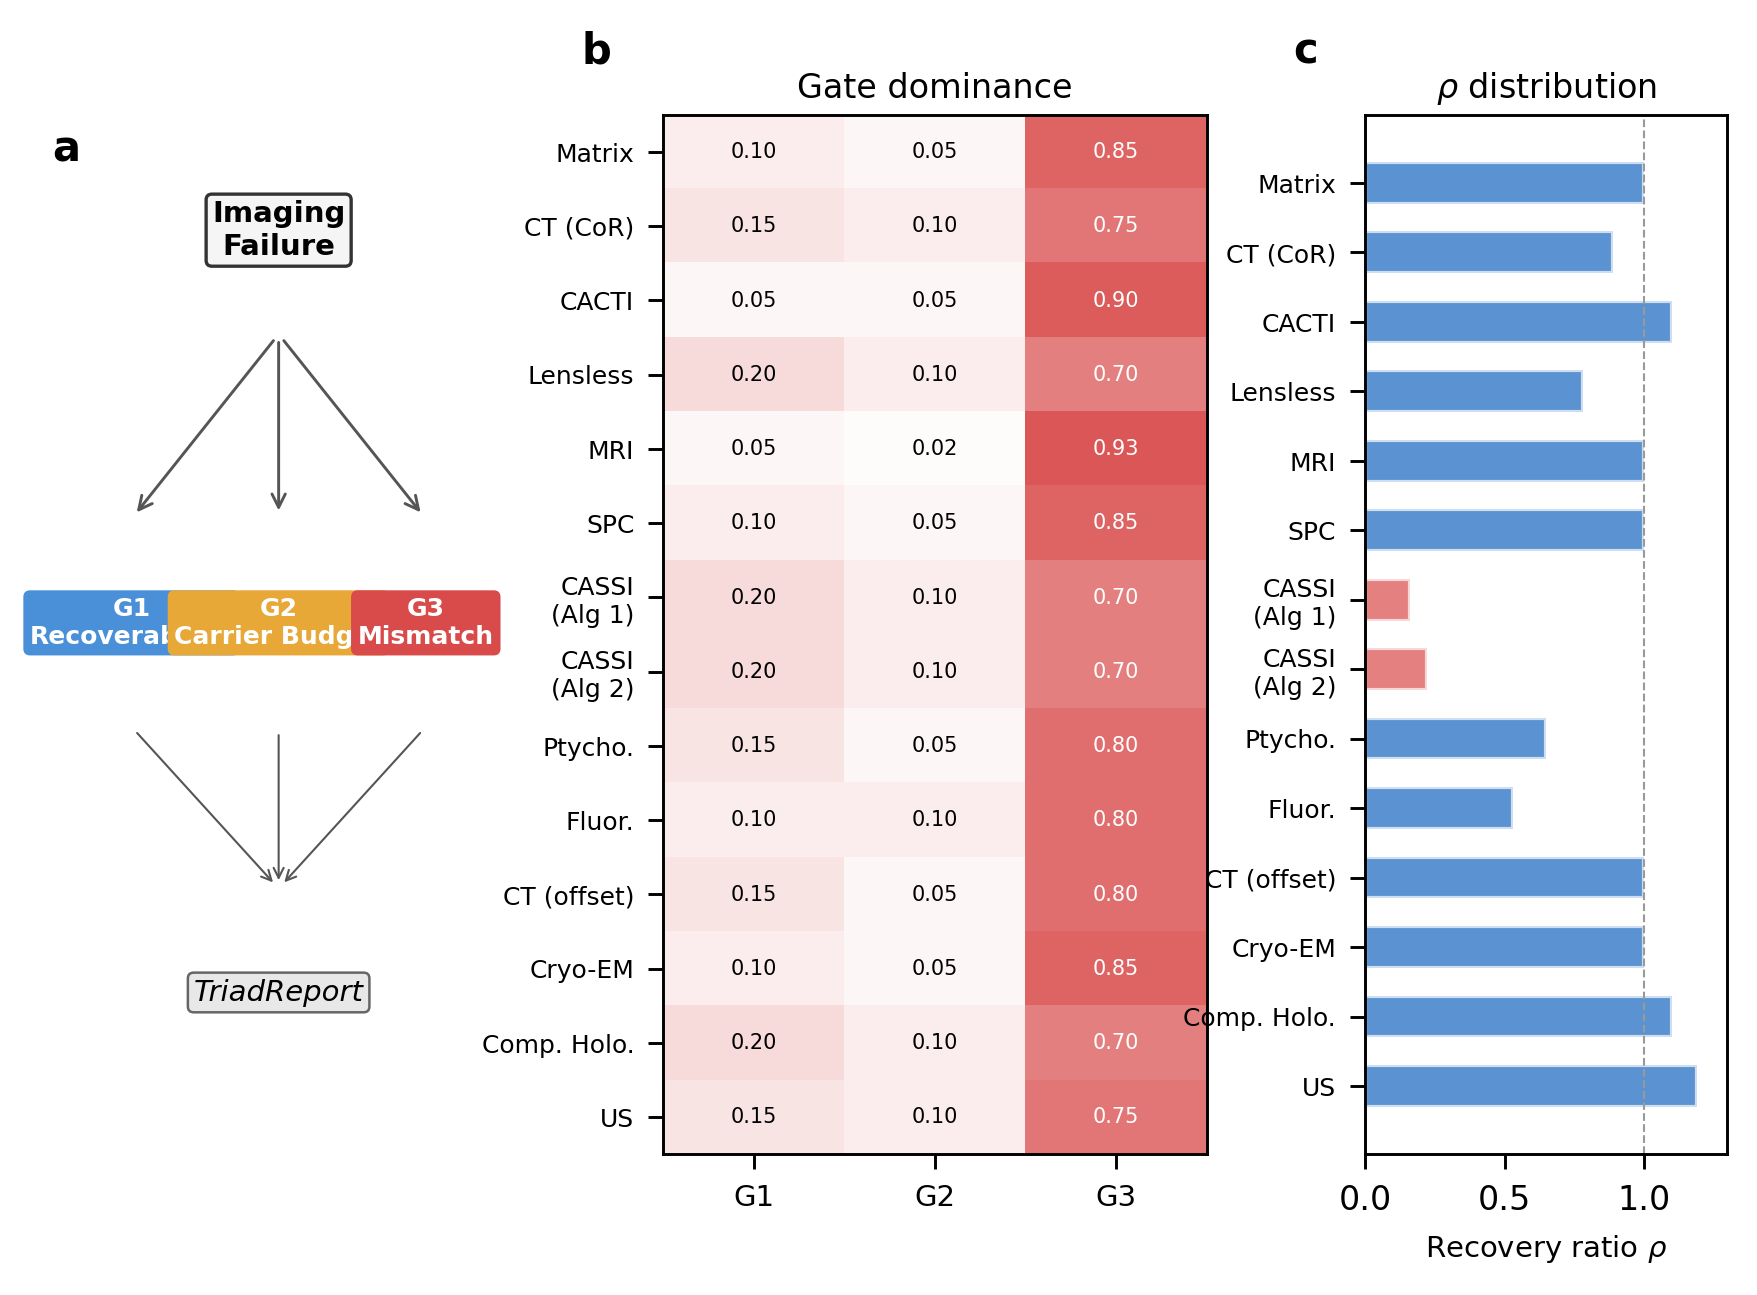
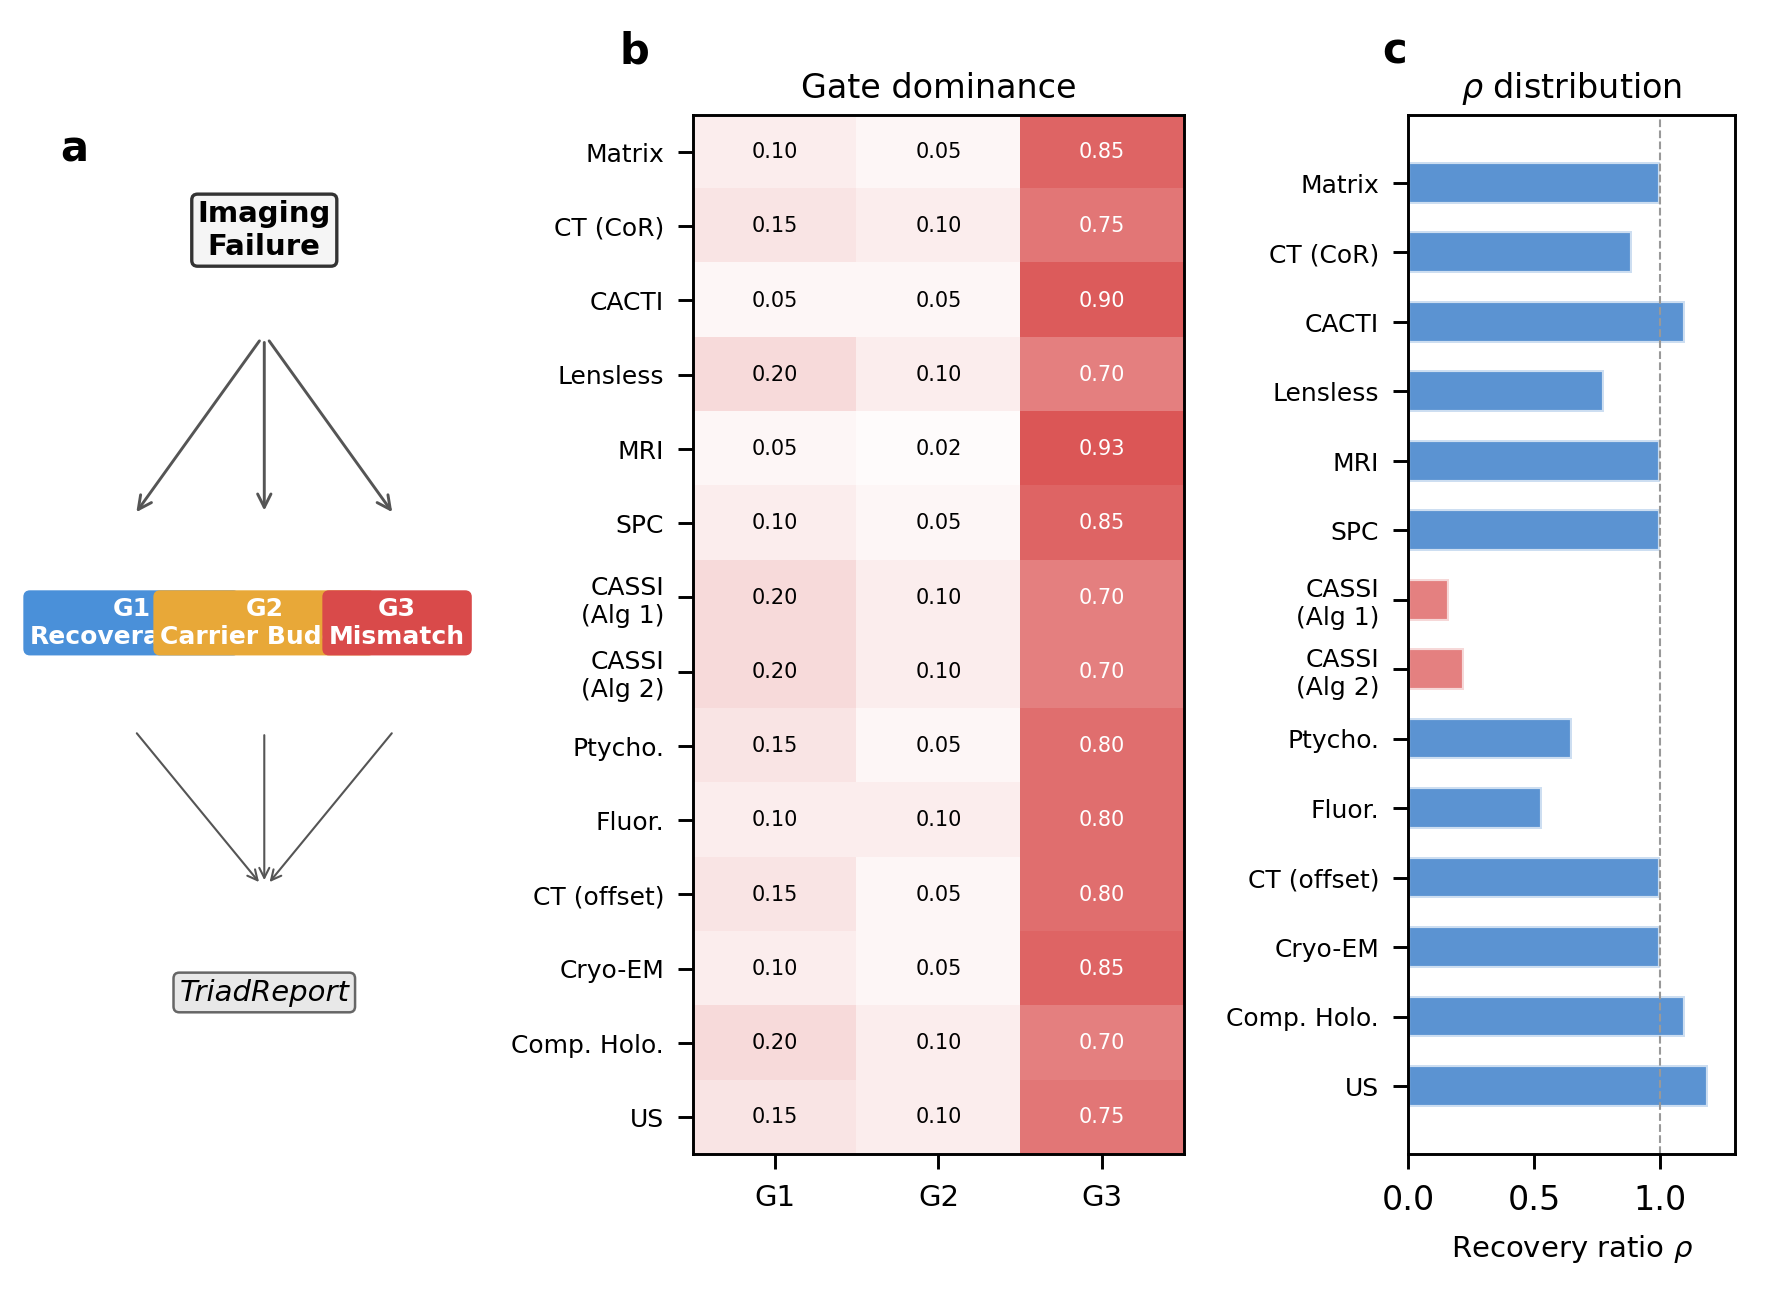
fix(fig3): increase wspace and fix panel-c label position to prevent b/c overlap

diff --git a/papers/pwm_flagship/scripts/generate_all_figures.py b/papers/pwm_flagship/scripts/generate_all_figures.py
@@ -255,7 +255,7 @@ def fig2_operatorgraph():
 # ═════════════════════════════════════════════════════════════════════════════
 def fig3_triad():
     fig = plt.figure(figsize=(DOUBLE_COL, 4.5))
-    gs = gridspec.GridSpec(1, 3, width_ratios=[1, 1.2, 0.8], wspace=0.35)
+    gs = gridspec.GridSpec(1, 3, width_ratios=[1, 1.2, 0.8], wspace=0.55)
 
     # Panel a: Decision tree
     ax_a = fig.add_subplot(gs[0])
@@ -344,7 +344,7 @@ def fig3_triad():
 
     # Panel c: Recovery ratio distribution
     ax_c = fig.add_subplot(gs[2])
-    ax_c.text(-0.2, 1.05, 'c', fontsize=10, fontweight='bold',
+    ax_c.text(-0.08, 1.05, 'c', fontsize=10, fontweight='bold',
               transform=ax_c.transAxes)
 
     # Recovery ratios from the paper (14 configurations, 5 carrier families)
